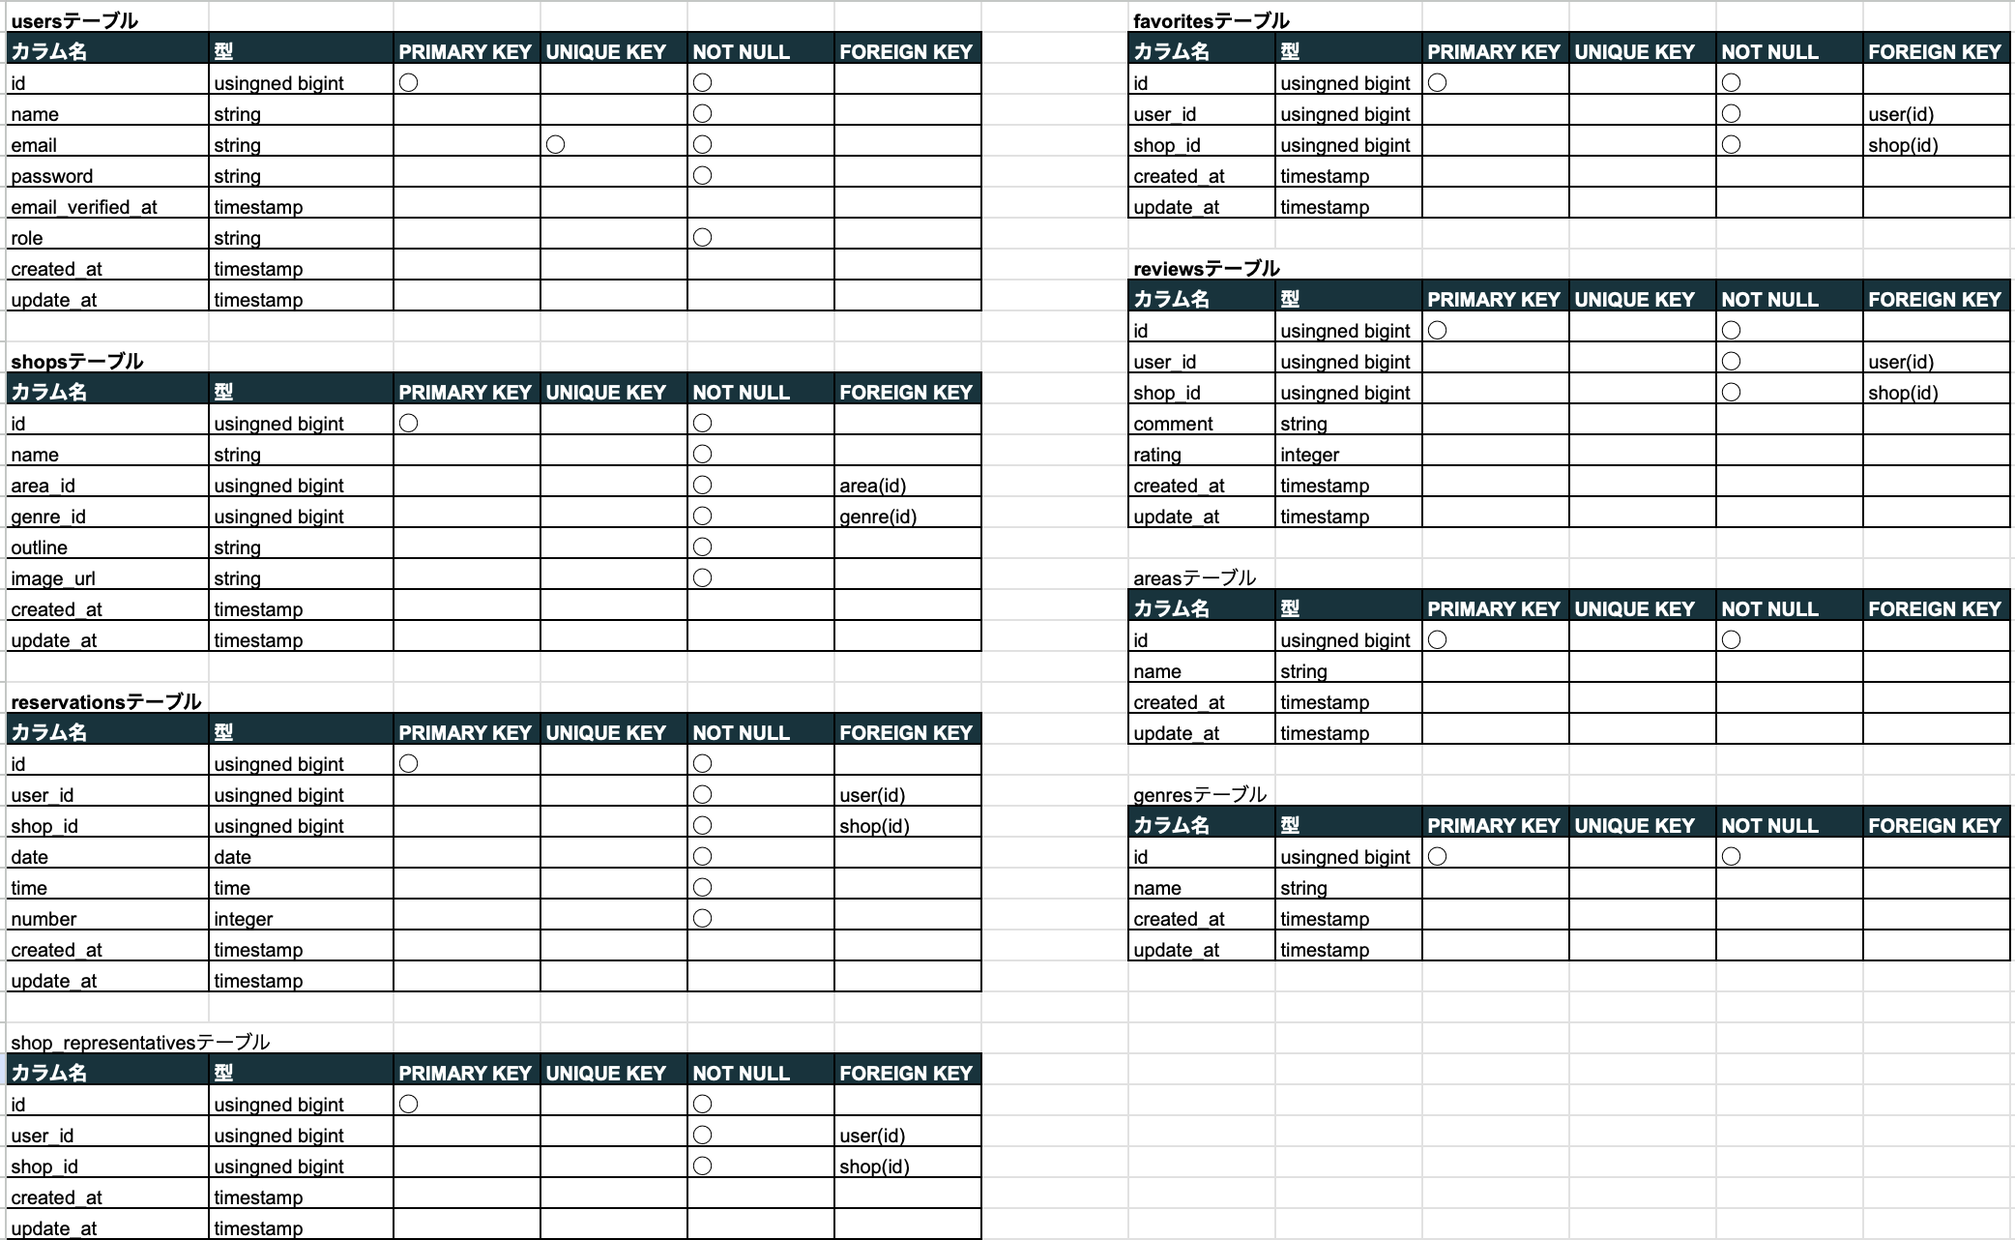
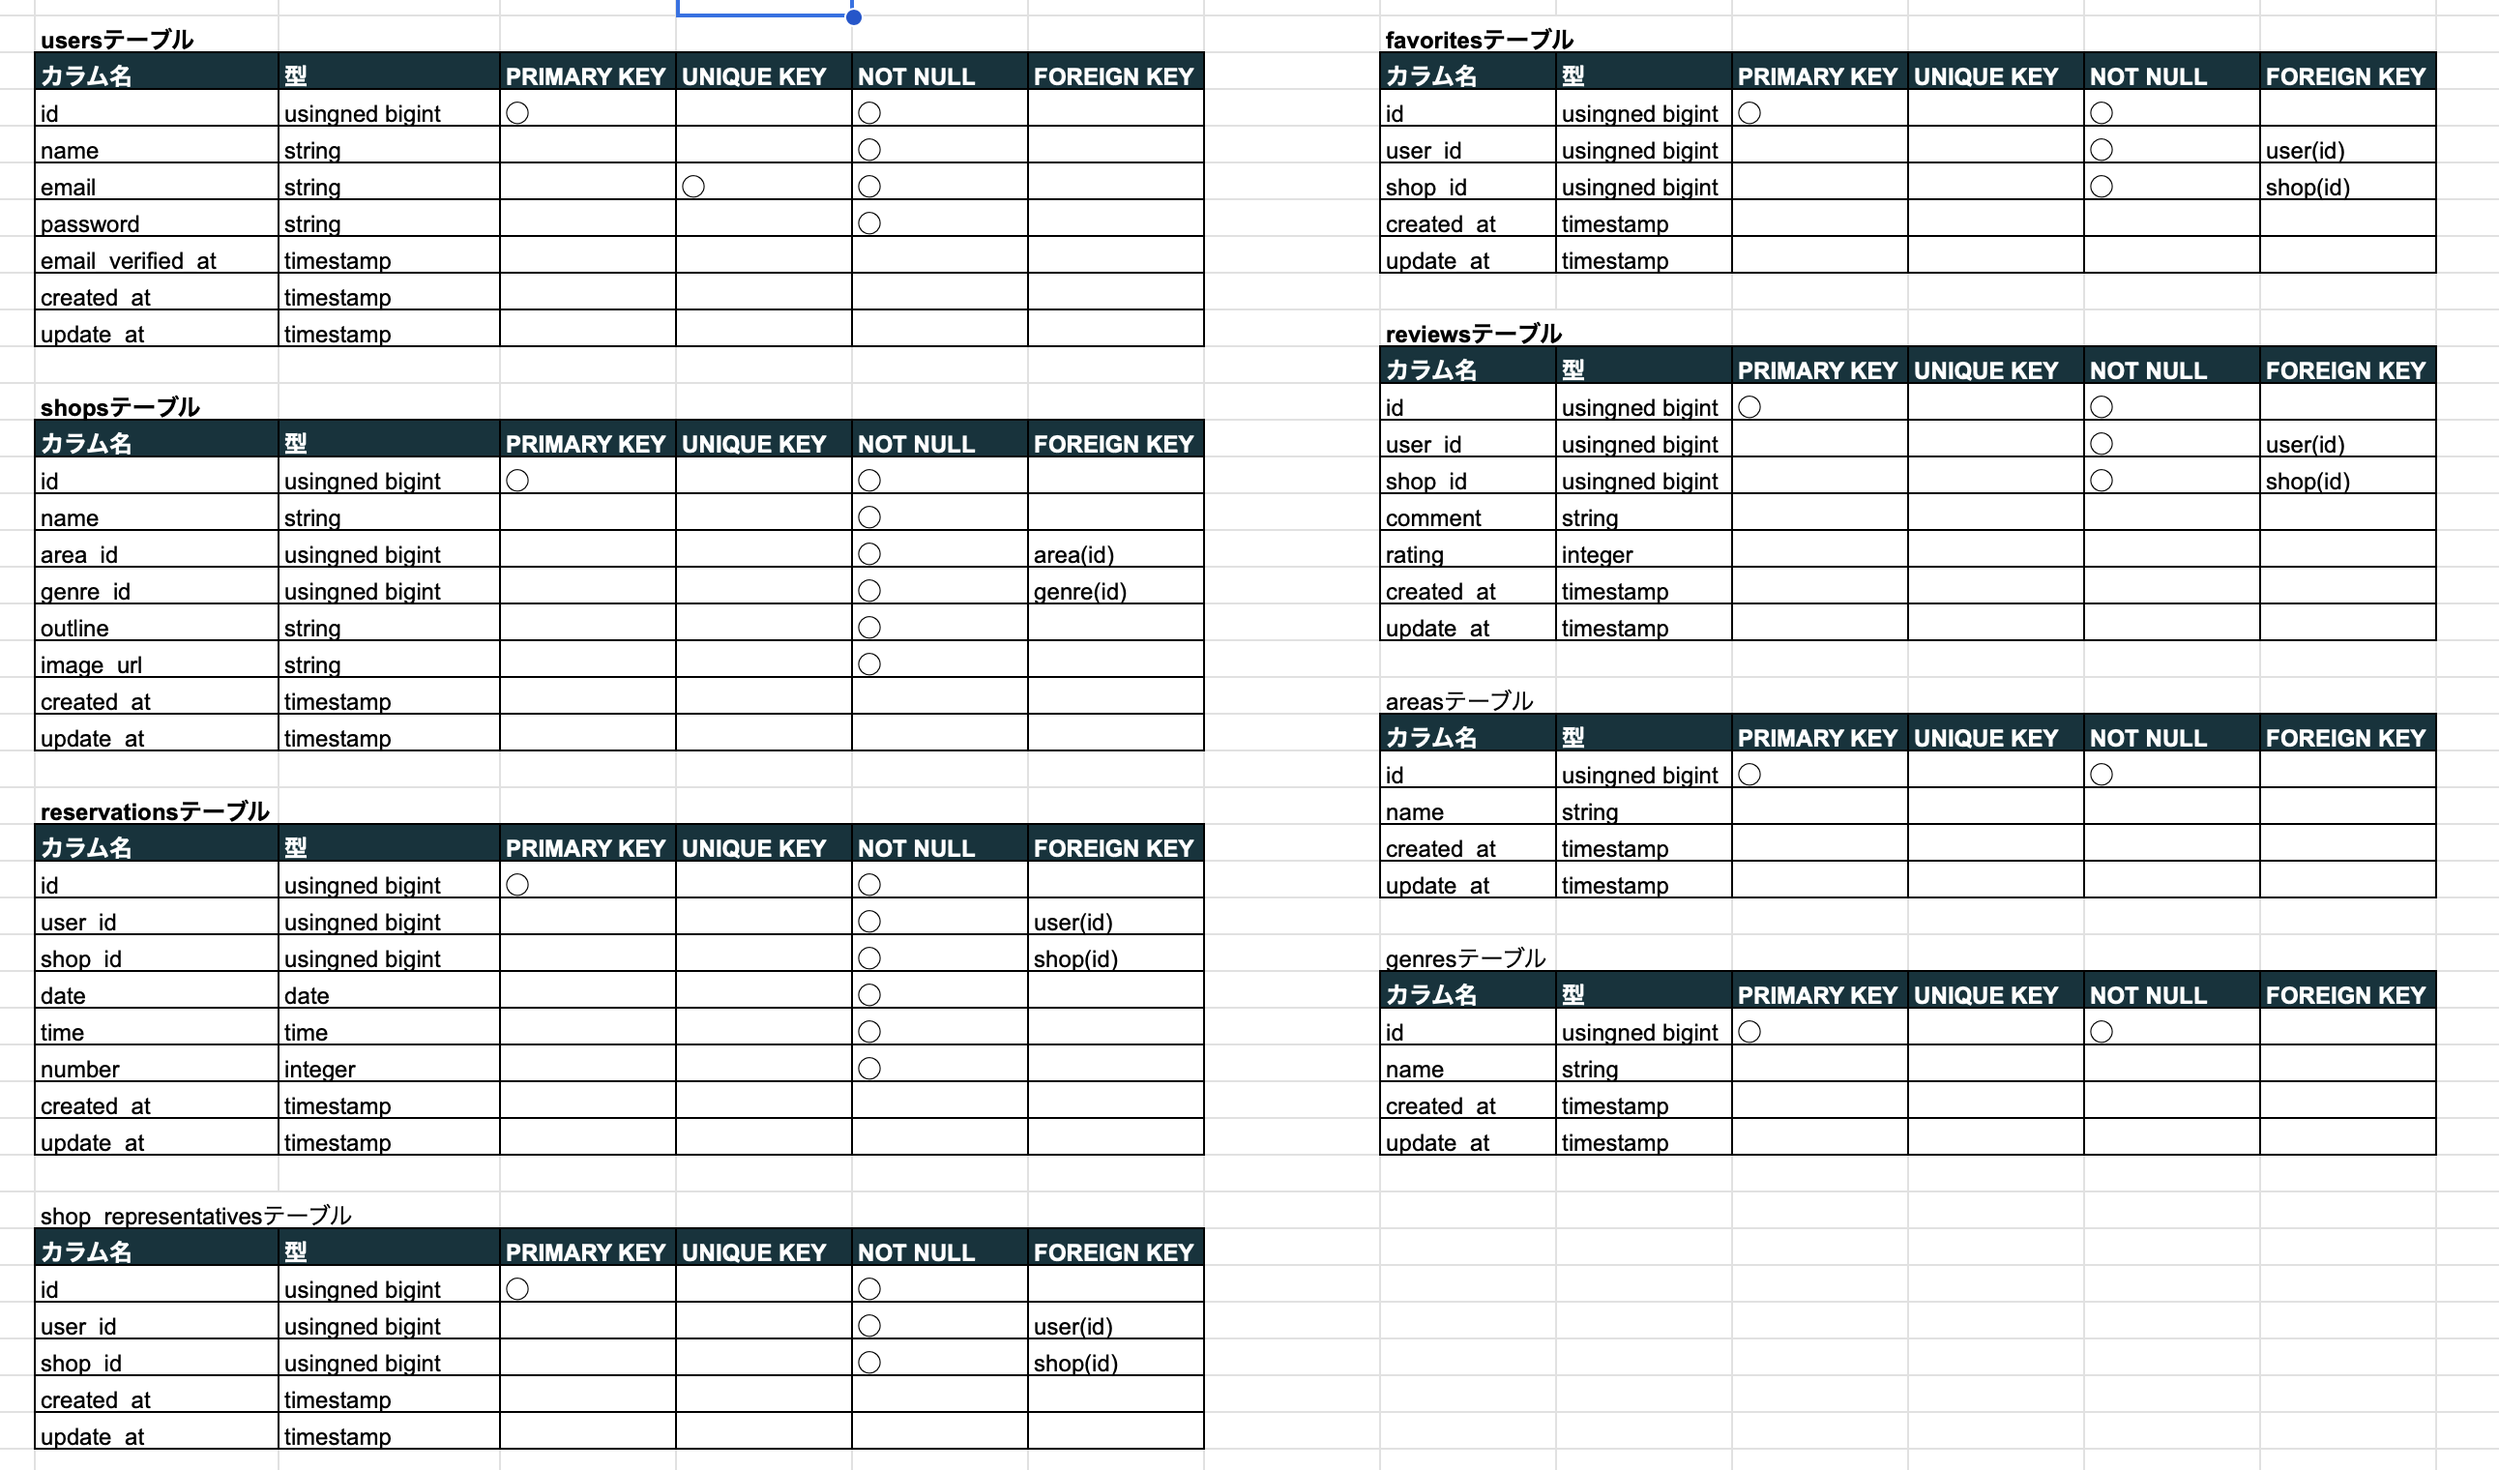
リモートリポジトリの変更

Changed region(s): [[0.0, 0.0, 1.0, 1.0]]

diff --git a/README.md b/README.md
@@ -37,7 +37,7 @@ docker,Laravel8.x,PHP7.4,laravel-fortify,laravel-permission,Stripe,javascript
 
 ## ER図
 
-The Laravel framework is open-sourced software licensed under the [MIT license](https://opensource.org/licenses/MIT).
+<img src="/images/ER.drawio.png" width="600">
 
 ## 環境構築
 ### コマンドライン上
@@ -62,10 +62,9 @@ $ cp .env.local .env
 ### PHPコンテナ内
 ```php
 $ php artisan key:generate
-$ php artisan migrate --seed
+$ php artisan migrate
+$ php artisan db:seed
 ```
-
-
 
 ## ダミーデータの説明
 
